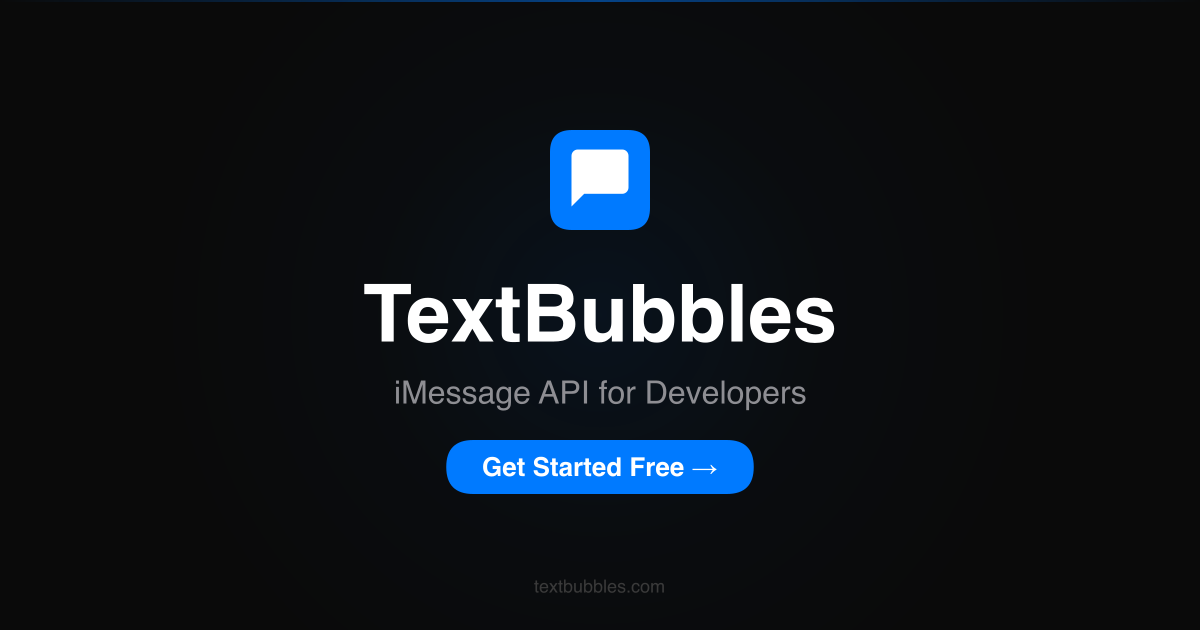
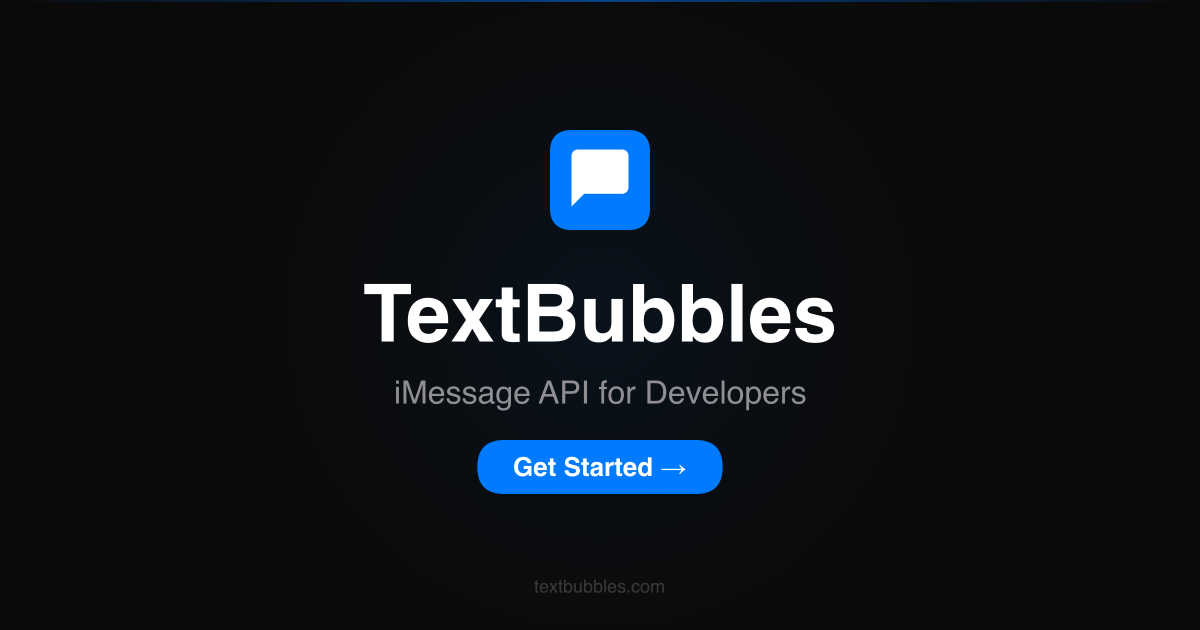
Fix API link to docs, update CTA to 'Get Started'

Changed region(s): [[0.37, 0.6937, 0.6475, 0.7841]]

diff --git a/components/Navbar.tsx b/components/Navbar.tsx
@@ -56,7 +56,7 @@ export default function Navbar() {
             Docs
           </a>
           <a
-            href="https://api.textbubbles.com"
+            href="https://docs.textbubbles.com/api"
             className="text-sm text-gray-600 dark:text-gray-400 hover:text-gray-900 dark:hover:text-white transition-colors"
           >
             API

diff --git a/scripts/generate-og.js b/scripts/generate-og.js
@@ -97,7 +97,7 @@ ctx.textAlign = 'center';
 ctx.fillText('iMessage API for Developers', WIDTH / 2, 395);
 
 // --- CTA Button ---
-const ctaText = 'Get Started Free →';
+const ctaText = 'Get Started →';
 ctx.font = 'bold 26px Helvetica, Arial, sans-serif';
 const ctaMetrics = ctx.measureText(ctaText);
 const ctaPadH = 36;
